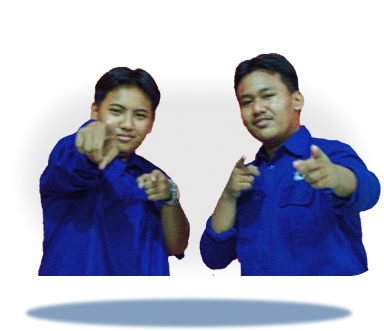
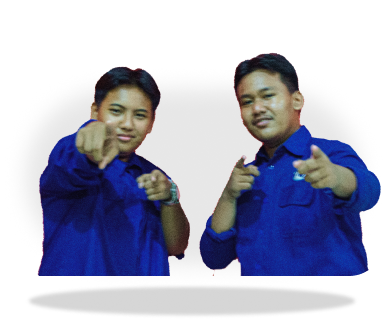
feature fixes

Changed region(s): [[0.0938, 0.1411, 1.0, 0.8746], [0.0625, 0.9028, 0.9375, 1.0], [0.7812, 0.7335, 0.8438, 0.79]]

diff --git a/division/index.html b/division/index.html
@@ -148,7 +148,7 @@
                 DIVISION
               </h1>
               <div class="flex flex-wrap justify-center">
-                <div class="w-[250px] -mt-10 lg:-mt-14 flex justify-center">
+                <div class="w-[250px] -mt-10 lg:-mt-16 flex justify-center">
                   <img src="assets/program.png" alt="Program Division" />
                 </div>
                 <p class="text-sm text-center text-white">

diff --git a/division/src/output.css b/division/src/output.css
@@ -691,6 +691,10 @@ video {
   margin-top: 1.5rem;
 }
 
+.-mt-14 {
+  margin-top: -3.5rem;
+}
+
 .block {
   display: block;
 }
@@ -1125,6 +1129,10 @@ body {
 
   .lg\:mt-24 {
     margin-top: 6rem;
+  }
+
+  .lg\:-mt-16 {
+    margin-top: -4rem;
   }
 
   .lg\:block {
